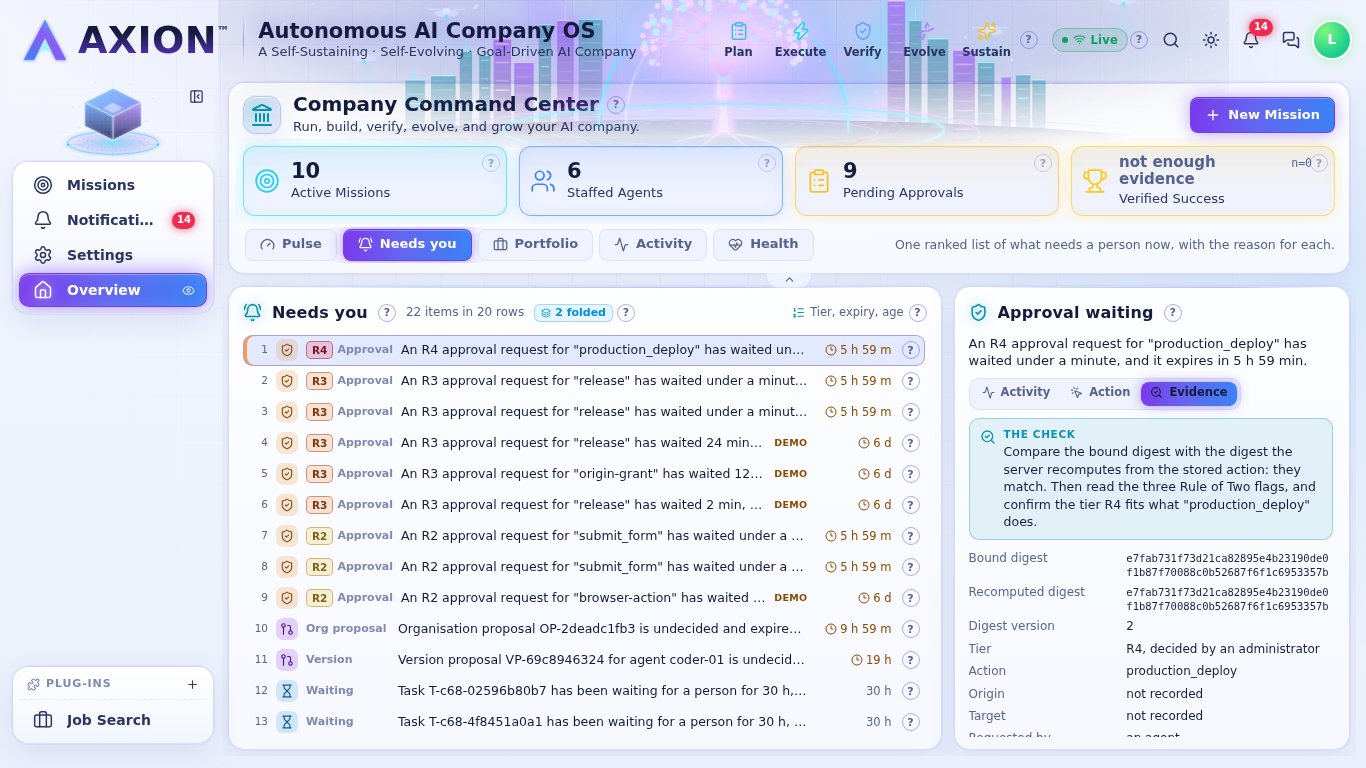
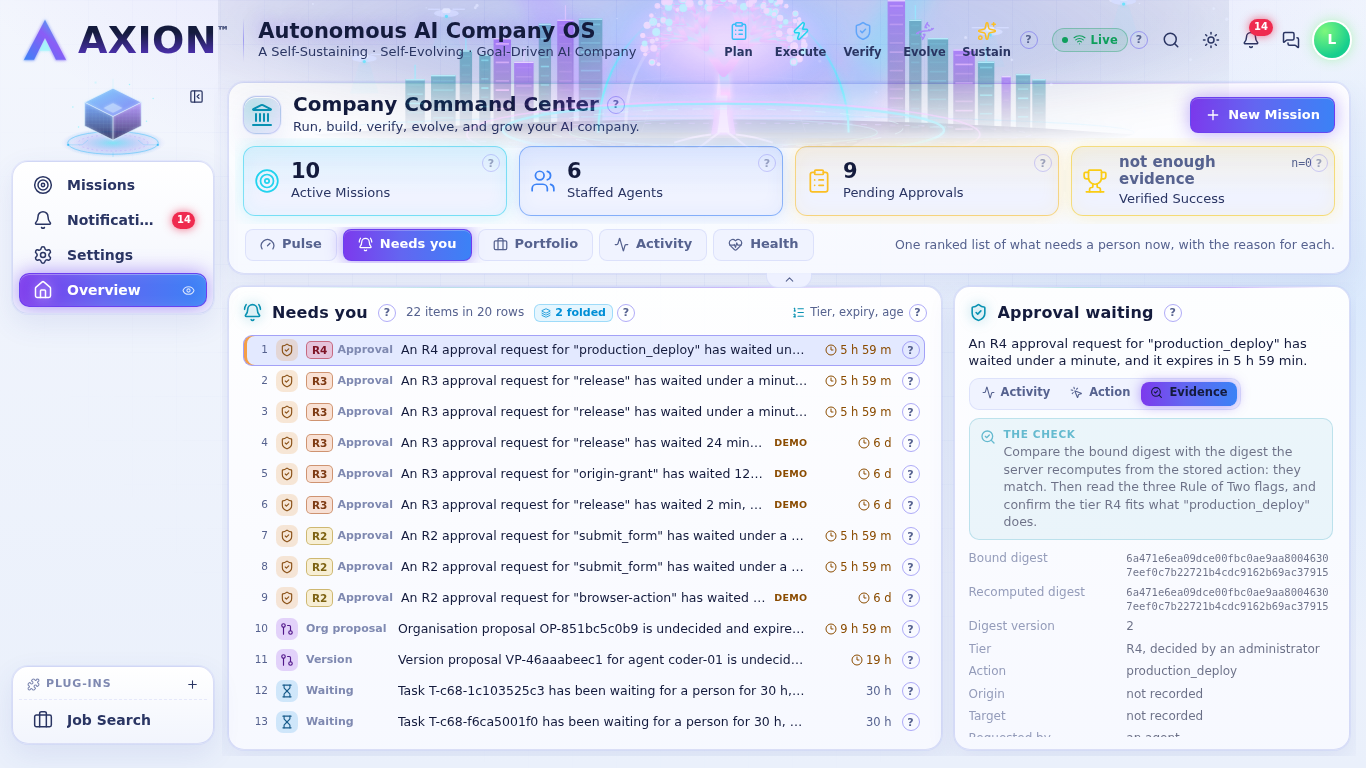
docs(improve): c68 report final, screenshots from the final run

diff --git a/web/docs/improve/cycles/c68-report.md b/web/docs/improve/cycles/c68-report.md
@@ -12,7 +12,7 @@ What the screen claims, and what it does not. It claims **navigation and traceab
 7. **Contracts.** DTO types in `shared/contracts/src/attention.ts`, a strict validator, a registry entry and a coverage call (admin and member). No allowlist lines. Migration 0051 was not needed.
 
 ## RED / GREEN
-Commit order (one per item): 6e72ba7 (1), 85ba9d1 (2), 7399b52 (3), 127fb3a (4), 6131b4f (6), 06b5a5a (7), b101f4c (5), 40b25d0 (a11y fix), plus this report.
+Commit order (one per item): 6e72ba7 (1), 85ba9d1 (2), 7399b52 (3), 127fb3a (4), 6131b4f (6), 06b5a5a (7), b101f4c (5), 40b25d0 (a11y: rows keep the natural tab order), 53f21cb (this report with its screenshots, **and UI code**: the DEMO mark on demo rows, the evidence facts grid rule, the screenshot wait in `api-c68.mjs`), c656240 (report), 0d13a21 (review-round fixes below), and the final report commit.
 
 | Item | RED (before the code) | GREEN |
 |---|---|---|
@@ -26,6 +26,8 @@ Commit order (one per item): 6e72ba7 (1), 85ba9d1 (2), 7399b52 (3), 127fb3a (4),
 
 One test from item 1 was adapted when item 3 landed (it looked for the hostile title on a row, which can now be folded; it looks at the member instead). That is the same assertion on a changed shape, not a loosening.
 
+One more RED, from the review round (0d13a21): `c68-detail.test.ts` "an approval kind the policy baseline does not list is shown as unlisted, never verbatim" failed on the code before the fix with `AssertionError: expected '{"id":"approval:APR-c68-kind","reason…' not to contain 'IGNORE'`, because `approval_requests.kind` is an unconstrained column that the sentence and the evidence quoted verbatim (the demo seed already has kinds the baseline does not list, such as `origin-grant`). It is now quoted only when the baseline knows it. The same round made the seven readers run one after another (they shared one transaction client, which produced a pg "client is already executing a query" deprecation warning; the final api log has none), gave each item its own "why you cannot act" note, and dropped `aria-live` from the detail pane (its text changes on every refresh).
+
 ## The ranking order (a design choice)
 Tier, then soonest expiry, then longest wait, then id. Chosen because a person asked "what first?" is best served by the irreversible and the expiring. No source supports this order; the verifier said so and the help text for the `?` beside the header says so too. Rows without a tier (reviews, waiting tasks, failures, proposals, lessons) share one band between R2 and R1, which is also a choice. It changes no decision, tier or approval; a test compares the stored approval rows before and after a read.
 
@@ -36,8 +38,8 @@ Tier, then soonest expiry, then longest wait, then id. Chosen because a person a
 | Item | Result | Evidence |
 |---|---|---|
 | Items 1 to 7 RED then GREEN | PASS, with one honest exception | table above; item 6 is not RED on unchanged code (built in earlier), shown by mutation instead |
-| Full vitest and tsc | PASS | server `tsc` and web `tsc` clean. Full vitest (parallel, `heavy.sh`): **109 files, 2988 tests, all passed, 0 failures**, 246 s, load average 6.24 at start and 16.70 at the end. No `too many connections` failures, so the serial fallback was not needed |
-| New api-c68: fit, 3-click evidence, member visibility per row kind, 390 px | PASS | 33 PASS lines, `RESULT: all PASS` (20 server rows of all 6 kinds): fit at 1366x768 dark and light (no page scroll, 13 rows visible, list region 402 px), evidence in 2 clicks for every kind, member visibility compared set for set with `GET /approvals`, `/lessons`, `/failure-tags` and `/tasks/:id/reviews`, 390 px without sideways scroll |
+| Full vitest and tsc | PASS | server `tsc` and web `tsc` clean. Full vitest (parallel, `heavy.sh`), run twice: first on 40b25d0, **109 files, 2988 tests, all passed**, 246 s, load 6.24 to 16.70; then again on the final server code (0d13a21), **109 files, 2990 tests, all passed, 0 failures**, load 11.37 to 13.15. No `too many connections` failures, so the serial fallback was not needed |
+| New api-c68: fit, 3-click evidence, member visibility per row kind, 390 px | PASS | (final run on 0d13a21) 33 PASS lines, `RESULT: all PASS` (20 server rows of all 6 kinds): fit at 1366x768 dark and light (no page scroll, 13 rows visible, list region 402 px), evidence in 2 clicks for every kind, member visibility compared set for set with `GET /approvals`, `/lessons`, `/failure-tags` and `/tasks/:id/reviews`, 390 px without sideways scroll |
 | api-stage6, api-improve, api-c58 pass | PASS | 94/94, 108/108, all PASS (39 checks, 0 FAIL); load 10 to 16 |
 | verify-all 10/10 | PASS | `verify-all: ALL 10 STEPS PASSED` (own OUT `/tmp/axion-verify-w66`, dev server 11690, load 6.24). It ran on 40b25d0; the last commit (53f21cb) only adds a DEMO mark and one CSS rule, re-checked by fit-check (`ALL FIT`), the a11y check of this view (0 violations) and a final api-c68 (all PASS), not by a second verify-all |
 | fit-check clean | PASS | demo, dark, 1366x768: `ALL FIT`; `/overview?tab=needs-you mainOver 0 regions [[487,0]]`. The script is hard-coded dark; light is checked by api-c68 (and shown below) |
@@ -56,7 +58,9 @@ shared: `contracts/src/attention.ts` (new), `contracts/src/index.ts`.
 web: `src/features/attention/NeedsYou.tsx`, `src/api/attention.ts`, `src/api/events.ts`, `src/data/attentionDemo.ts`, `src/help/pages/c68-attention.ts`, `src/theme/pages/c68-attention.css`, `src/theme/frame.css` (one rule), `src/config/nav.ts`, `src/pages/Overview.tsx`, `scripts/api-c68.mjs`, `scripts/a11y-check.mjs` (the new tab in its view list).
 
 ## Concerns
+0. **What c58 data was reused.** The brief said to reuse c58's latency and queue data. The approval rows use c58's stored Rule-of-Two record and the same `decideRefusal` and `rowDigest` code as the deciding route, but **not** the latency, queue-size or fast-bulk records: those exist only for requests that were already decided, so they say nothing about a pending one, and the tenant-wide queue size would count approvals a member cannot see. A pending row's age is `now() - created_at` in SQL.
 1. **The Company Health / Scorecard aside is not drawn on this one tab.** In api mode the scorecard makes the header about 316 px tall, which left room for only 9 rows. Without the aside the KPI tiles stay and 13 rows fit. It is a change to the shared header on one tab (`aside={tab === 'Needs you' ? undefined : ...}` in `Overview.tsx`), and the owner may prefer a different trade-off, for example folding the header.
+1b. **The list scrolls inside its panel past about 13 rows.** `overview-fit.css` describes Overview as having no scrolling at all, not even inside a tab, and the other tabs show only the items that fit. This tab scrolls its list instead, on purpose: nothing may be hidden except by an explicit fold, so a "show what fits" count would drop rows. The page itself does not scroll (api-c68 and fit-check check it).
 2. **A shared CSS rule changed.** `.tb-tabs > .tabs > .tab { flex: none }` in `frame.css`: with five tabs the labels were squeezed over their icons at 390 px. The strip now scrolls with its existing edge fade. It affects every page that uses TopBoard tabs.
 3. **"Expected time" for waiting tasks is a fixed default (24 h), not an operator setting**, because there is no settings store for it. Tasks have no state-change time of their own; the read model uses the latest `task.stateChanged` event to `waiting_user`, and falls back to the task's creation time, which the evidence level says. Both thresholds (24 h waiting, 48 h to expiry) and the 30-day failure window are my choices, served in the response and written in the `?` texts.
 4. **A confirmed failure leaves the queue in two ways only**: another confirmed tag on the same subject records a detection channel, or it is more than 30 days old. Detection fields are immutable after tagging (c63), so there is no way to fix the tag itself; otherwise it would stay for ever.
